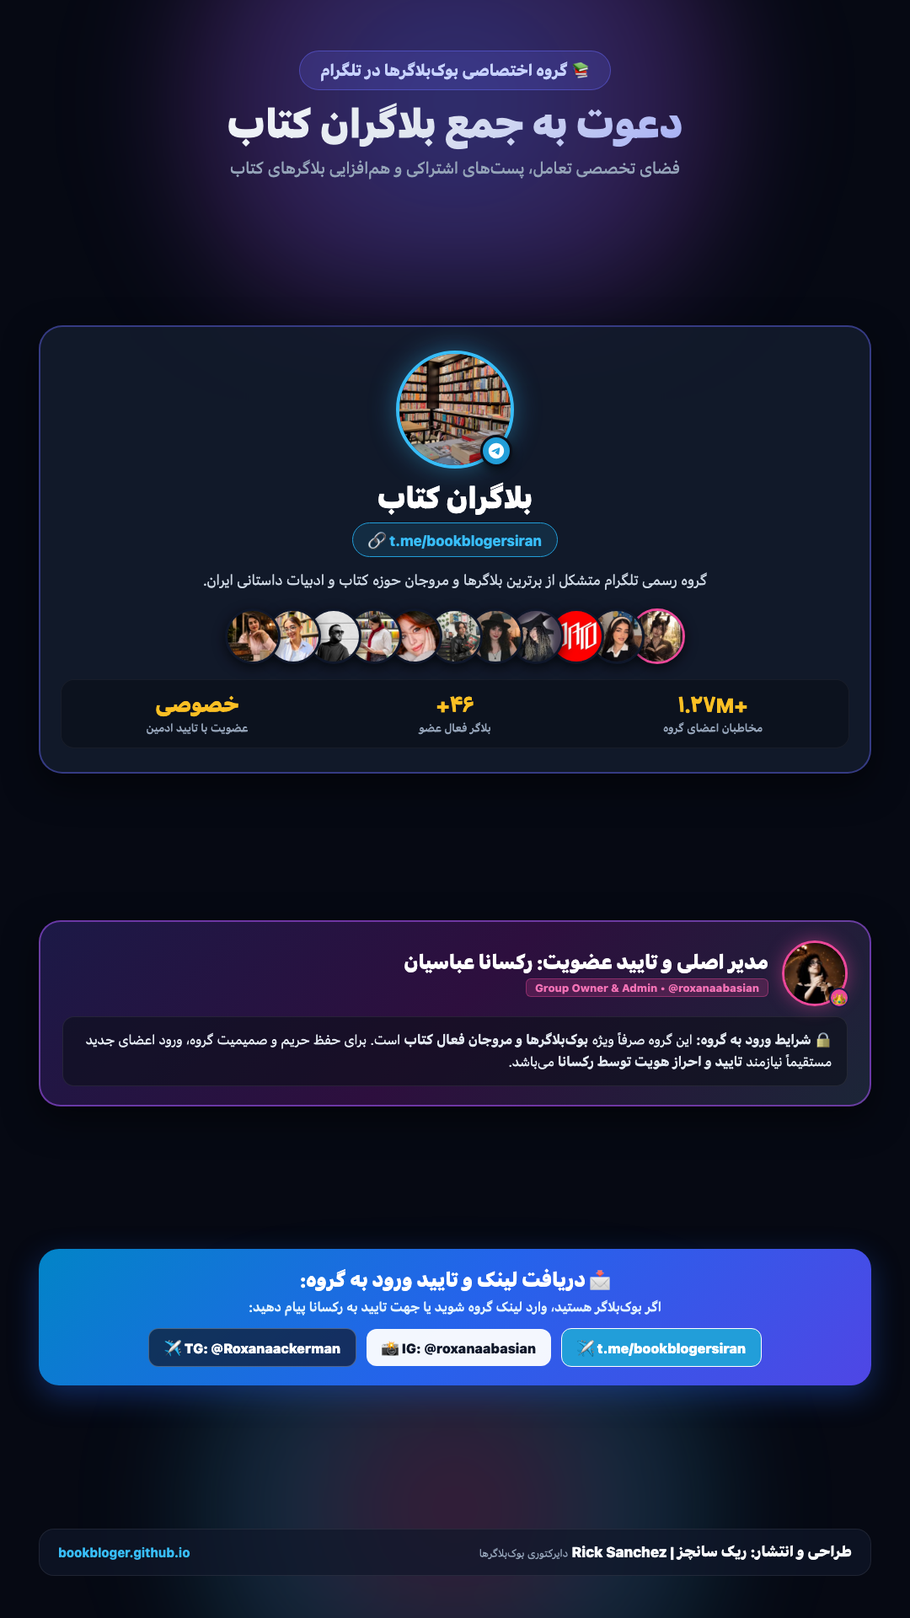
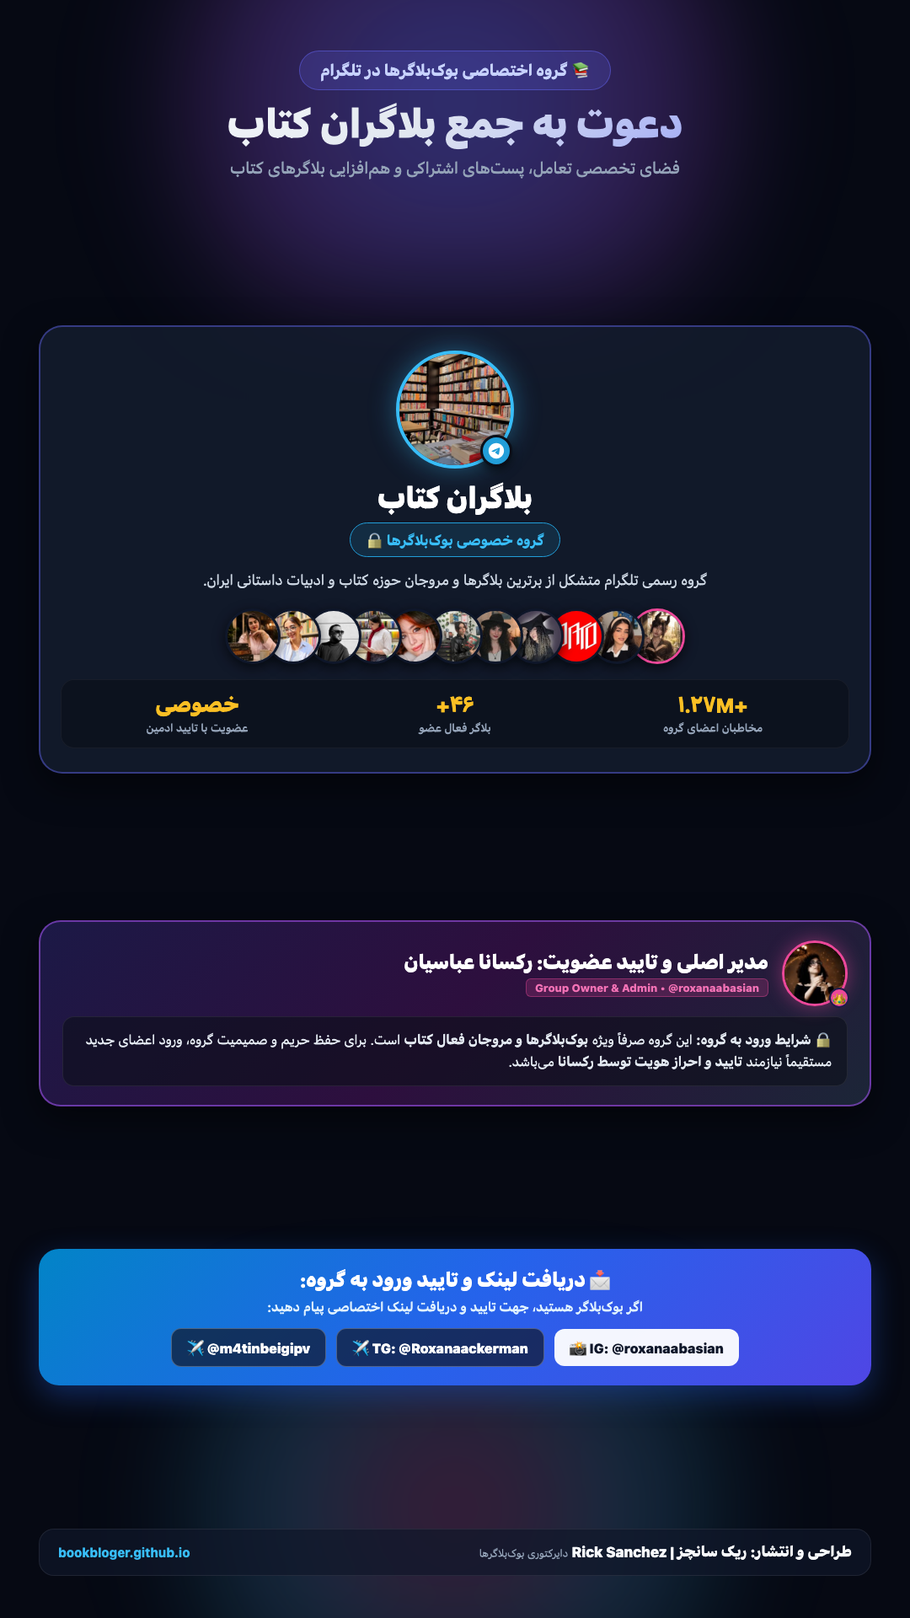
fix: update verified private telegram group invite link https://t.me/+tReSYWxBreFmYThk across all components

Changed region(s): [[0.275, 0.7812, 0.8556, 0.8438], [0.3972, 0.3125, 0.6111, 0.3438], [0.1528, 0.8125, 0.275, 0.8438]]

diff --git a/index.html b/index.html
@@ -981,8 +981,8 @@
         <div class="hero-badge">📊 مرتبشده بر اساس بیشترین فالوور اینستاگرام</div>
         
         <div class="nav-banners-row">
-            <a href="https://t.me/bookblogersiran" target="_blank" rel="noopener noreferrer" class="banner-btn group-tg">
-                👥 گروه تلگرام بوکبلاگرها (t.me/bookblogersiran) ↗
+            <a href="https://t.me/+tReSYWxBreFmYThk" target="_blank" rel="noopener noreferrer" class="banner-btn group-tg">
+                👥 گروه تلگرام بوکبلاگرها (ورود به گروه) ↗
             </a>
             <a href="3d.html" class="banner-btn galaxy">
                 🌌 کهکشان سهبعدی (3D Galaxy)
@@ -1008,9 +1008,9 @@
             برای اجرای کمپینهای تبلیغاتی، رونمایی و نقد کتاب، اسپانسرشیپ و همکاری هدفمند با بیش از <b>۱.۲۷ میلیون مخاطب کتابخوان</b> این لیست، هماهنگی و مدیریت اختصاصی کمپینها را میتوانید به <b>ریک سانچز</b> بسپارید یا در گروه تلگرامی مطرح کنید.
         </p>
         <div class="contact-buttons">
-            <a href="https://t.me/bookblogersiran" target="_blank" rel="noopener noreferrer" class="contact-btn contact-btn-group">
+            <a href="https://t.me/+tReSYWxBreFmYThk" target="_blank" rel="noopener noreferrer" class="contact-btn contact-btn-group">
                 <svg width="18" height="18" viewBox="0 0 24 24" fill="currentColor"><path d="M12 2C6.48 2 2 6.48 2 12s4.48 10 10 10 10-4.48 10-10S17.52 2 12 2zm4.64 6.8c-.15 1.58-.8 5.42-1.13 7.19-.14.75-.42 1-.68 1.03-.58.05-1.02-.38-1.58-.75-.88-.58-1.38-.94-2.23-1.5-.99-.65-.35-1.01.22-1.59.15-.15 2.71-2.48 2.76-2.69a.2.2 0 00-.05-.18c-.06-.05-.14-.03-.21-.02-.09.02-1.49.95-4.22 2.79-.4.27-.76.41-1.08.4-.36-.01-1.04-.2-1.55-.37-.63-.2-1.12-.31-1.08-.66.02-.18.27-.36.74-.55 2.92-1.27 4.86-2.11 5.83-2.51 2.78-1.16 3.35-1.36 3.73-1.36.08 0 .27.02.39.12.1.08.13.19.14.27-.01.06.01.24 0 .38z"/></svg>
-                گروه تلگرام: t.me/bookblogersiran
+                گروه تلگرام: بلاگران کتاب
             </a>
             <a href="https://t.me/m4tinbeigipv" target="_blank" rel="noopener noreferrer" class="contact-btn contact-btn-tg">
                 ادمین: @m4tinbeigipv
@@ -1046,46 +1046,6 @@
     </div>
 
     <div class="grid" id="bloggersGrid">
-        <div class="card" data-name="ریک سانچز (قفسه کتاب) RickBookshelf m4tinbeigi" data-followers="150000.0" style="border: 1px solid #10B981; background: linear-gradient(145deg, #0f172a, #064e3b22);">
-            <div class="rank-badge" style="background: #10B981; color: #000; font-weight: 800;">⭐ کیوریتور و تحلیلگر</div>
-            <div class="card-main-content">
-                <div class="card-top">
-                    <a href="https://t.me/RickBookshelf" target="_blank" class="avatar-wrap" title="کانال تلگرام قفسه کتاب ریک سانچز">
-                        <img src="avatars/rick_sanchez.png" alt="ریک سانچز - قفسه کتاب" class="avatar" loading="lazy">
-                    </a>
-                    <div class="info">
-                        <h3 title="ریک سانچز"><a href="https://t.me/RickBookshelf" target="_blank" class="name-link">ریک سانچز (قفسه کتاب)</a></h3>
-                        <a href="https://t.me/RickBookshelf" target="_blank" rel="noopener noreferrer" class="handle" title="تلگرام RickBookshelf">@RickBookshelf</a>
-                    </div>
-                </div>
-
-                <div class="metrics">
-                    <div class="metric-item">
-                        <div class="val highlight" style="color: #34D399;">C-137</div>
-                        <div class="lbl">دایره تحلیل</div>
-                    </div>
-                    <div class="metric-item">
-                        <div class="val">۱۰ پست/روز</div>
-                        <div class="lbl">نرخ نشر</div>
-                    </div>
-                    <div class="metric-item">
-                        <div class="val">عمیق</div>
-                        <div class="lbl">سطح محتوا</div>
-                    </div>
-                </div>
-            </div>
-
-            <div class="card-actions">
-                <a href="https://t.me/RickBookshelf" target="_blank" rel="noopener noreferrer" class="btn btn-detail" style="background: #10B981; color: #000; font-weight: 700;" title="عضویت در کانال قفسه کتاب">
-                    <svg width="15" height="15" viewBox="0 0 24 24" fill="currentColor"><path d="M12 2C6.48 2 2 6.48 2 12s4.48 10 10 10 10-4.48 10-10S17.52 2 12 2zm4.64 6.8c-.15 1.58-.8 5.42-1.13 7.19-.14.75-.42 1-.68 1.03-.58.05-1.02-.38-1.58-.75-.88-.58-1.38-.94-2.23-1.5-.99-.65-.35-1.01.22-1.59.15-.15 2.71-2.48 2.76-2.69a.2.2 0 00-.05-.18c-.06-.05-.14-.03-.21-.02-.09.02-1.49.95-4.22 2.79-.4.27-.76.41-1.08.4-.36-.01-1.04-.2-1.55-.37-.63-.2-1.12-.31-1.08-.66.02-.18.27-.36.74-.55 2.92-1.27 4.86-2.11 5.83-2.51 2.78-1.16 3.35-1.36 3.73-1.36.08 0 .27.02.39.12.1.08.13.19.14.27-.01.06.01.24 0 .38z"/></svg>
-                    کانال تلگرام
-                </a>
-                <a href="https://t.me/+Et8tgNcgkuYxNTA0" target="_blank" rel="noopener noreferrer" class="btn btn-ig" title="گروه گفتگوی کتاب">
-                    گفتگو و کامنتها
-                </a>
-            </div>
-        </div>
-
         <div class="card" data-name="آقای کتاب aqaye.ketab" data-followers="558000.0">
             <div class="rank-badge rank-1">🥇 رتبه ۱</div>
             <div class="card-main-content">
@@ -3091,7 +3051,7 @@
     <footer>
         <p>گردآوری، تحلیل داده و توسعه: <span class="footer-curator">ریک سانچز (Rick Sanchez)</span></p>
         <div class="footer-links">
-            <a href="https://t.me/bookblogersiran" target="_blank" rel="noopener noreferrer" style="color:#38bdf8; font-weight:700;">👥 گروه تلگرام (t.me/bookblogersiran)</a>
+            <a href="https://t.me/+tReSYWxBreFmYThk" target="_blank" rel="noopener noreferrer" style="color:#38bdf8; font-weight:700;">👥 گروه تلگرام (بلاگران کتاب)</a>
             <span>•</span>
             <a href="3d.html">🌌 کهکشان سهبعدی (3D)</a>
             <span>•</span>

diff --git a/top-posts.html b/top-posts.html
@@ -501,8 +501,8 @@
             بازگشت به دایرکتوری اصلی
         </a>
         <div class="top-links-group">
-            <a href="https://t.me/bookblogersiran" target="_blank" rel="noopener noreferrer" class="top-posts-link" style="color:#38bdf8; border-color:#229ED9;">
-                👥 گروه تلگرام (t.me/bookblogersiran)
+            <a href="https://t.me/+tReSYWxBreFmYThk" target="_blank" rel="noopener noreferrer" class="top-posts-link" style="color:#38bdf8; border-color:#229ED9;">
+                👥 گروه تلگرام (بلاگران کتاب)
             </a>
             <a href="3d.html" class="top-posts-link">
                 🌌 کهکشان سهبعدی
@@ -1000,7 +1000,7 @@
     <footer>
         <p>گردآوری و تحلیل داده: <b>ریک سانچز (Rick Sanchez)</b></p>
         <div class="footer-links">
-            <a href="https://t.me/bookblogersiran" target="_blank" rel="noopener noreferrer" style="color:#38bdf8; font-weight:700;">👥 گروه تلگرام (t.me/bookblogersiran)</a>
+            <a href="https://t.me/+tReSYWxBreFmYThk" target="_blank" rel="noopener noreferrer" style="color:#38bdf8; font-weight:700;">👥 گروه تلگرام (بلاگران کتاب)</a>
             <span>•</span>
             <a href="3d.html">🌌 کهکشان سهبعدی</a>
             <span>•</span>

diff --git a/blogger/dreems_book.html b/blogger/dreems_book.html
@@ -931,7 +931,7 @@
         <h2 class="campaign-title">هماهنگی و اجرای کمپین با بلاگر کتاب | معرفی کتاب | فروش کتاب | روزمرگی | بوکستاگرام |</h2>
         <p class="campaign-desc">برای هماهنگی تبلیغات، ارسال کتاب، نقد و بررسی و اجرای کمپینهای هدفمند با این بلاگر با مدیریت <b>ریک سانچز</b> در ارتباط باشید یا در گروه بوکبلاگرها مطرح کنید.</p>
         <div class="contact-buttons">
-            <a href="https://t.me/+tReSYWxBreFmYThk" target="_blank" rel="noopener noreferrer" class="contact-btn contact-btn-group">👥 گروه تلگرام: t.me/bookblogersiran</a>
+            <a href="https://t.me/+tReSYWxBreFmYThk" target="_blank" rel="noopener noreferrer" class="contact-btn contact-btn-group">👥 گروه تلگرام: بلاگران کتاب</a>
             <a href="https://t.me/m4tinbeigipv" target="_blank" rel="noopener noreferrer" class="contact-btn contact-btn-tg">تلگرام: @m4tinbeigipv</a>
             <a href="https://instagram.com/m4tinbeigi" target="_blank" rel="noopener noreferrer" class="contact-btn contact-btn-ig">اینستاگرام: @m4tinbeigi</a>
         </div>

diff --git a/blogger/negarankarimi.html b/blogger/negarankarimi.html
@@ -922,7 +922,7 @@
         <h2 class="campaign-title">هماهنگی و اجرای کمپین با نگارکریمی | تسهیلگر |  جستوجوگرِ یادگیری و رشد</h2>
         <p class="campaign-desc">برای هماهنگی تبلیغات، ارسال کتاب، نقد و بررسی و اجرای کمپینهای هدفمند با این بلاگر با مدیریت <b>ریک سانچز</b> در ارتباط باشید یا در گروه بوکبلاگرها مطرح کنید.</p>
         <div class="contact-buttons">
-            <a href="https://t.me/+tReSYWxBreFmYThk" target="_blank" rel="noopener noreferrer" class="contact-btn contact-btn-group">👥 گروه تلگرام: t.me/bookblogersiran</a>
+            <a href="https://t.me/+tReSYWxBreFmYThk" target="_blank" rel="noopener noreferrer" class="contact-btn contact-btn-group">👥 گروه تلگرام: بلاگران کتاب</a>
             <a href="https://t.me/m4tinbeigipv" target="_blank" rel="noopener noreferrer" class="contact-btn contact-btn-tg">تلگرام: @m4tinbeigipv</a>
             <a href="https://instagram.com/m4tinbeigi" target="_blank" rel="noopener noreferrer" class="contact-btn contact-btn-ig">اینستاگرام: @m4tinbeigi</a>
         </div>

diff --git a/blogger/totfarangii_ketab.html b/blogger/totfarangii_ketab.html
@@ -922,7 +922,7 @@
         <h2 class="campaign-title">هماهنگی و اجرای کمپین با دختر توتفرنگی | دنیای کتابها | معرفی و نقد</h2>
         <p class="campaign-desc">برای هماهنگی تبلیغات، ارسال کتاب، نقد و بررسی و اجرای کمپینهای هدفمند با این بلاگر با مدیریت <b>ریک سانچز</b> در ارتباط باشید یا در گروه بوکبلاگرها مطرح کنید.</p>
         <div class="contact-buttons">
-            <a href="https://t.me/+tReSYWxBreFmYThk" target="_blank" rel="noopener noreferrer" class="contact-btn contact-btn-group">👥 گروه تلگرام: t.me/bookblogersiran</a>
+            <a href="https://t.me/+tReSYWxBreFmYThk" target="_blank" rel="noopener noreferrer" class="contact-btn contact-btn-group">👥 گروه تلگرام: بلاگران کتاب</a>
             <a href="https://t.me/m4tinbeigipv" target="_blank" rel="noopener noreferrer" class="contact-btn contact-btn-tg">تلگرام: @m4tinbeigipv</a>
             <a href="https://instagram.com/m4tinbeigi" target="_blank" rel="noopener noreferrer" class="contact-btn contact-btn-ig">اینستاگرام: @m4tinbeigi</a>
         </div>

diff --git a/blogger/pragma_book.html b/blogger/pragma_book.html
@@ -922,7 +922,7 @@
         <h2 class="campaign-title">هماهنگی و اجرای کمپین با پراگما/ابوالفضل ثابت مقدم/کتاب/مروج ادبیات</h2>
         <p class="campaign-desc">برای هماهنگی تبلیغات، ارسال کتاب، نقد و بررسی و اجرای کمپینهای هدفمند با این بلاگر با مدیریت <b>ریک سانچز</b> در ارتباط باشید یا در گروه بوکبلاگرها مطرح کنید.</p>
         <div class="contact-buttons">
-            <a href="https://t.me/+tReSYWxBreFmYThk" target="_blank" rel="noopener noreferrer" class="contact-btn contact-btn-group">👥 گروه تلگرام: t.me/bookblogersiran</a>
+            <a href="https://t.me/+tReSYWxBreFmYThk" target="_blank" rel="noopener noreferrer" class="contact-btn contact-btn-group">👥 گروه تلگرام: بلاگران کتاب</a>
             <a href="https://t.me/m4tinbeigipv" target="_blank" rel="noopener noreferrer" class="contact-btn contact-btn-tg">تلگرام: @m4tinbeigipv</a>
             <a href="https://instagram.com/m4tinbeigi" target="_blank" rel="noopener noreferrer" class="contact-btn contact-btn-ig">اینستاگرام: @m4tinbeigi</a>
         </div>

diff --git a/blogger/sinmoruk.html b/blogger/sinmoruk.html
@@ -922,7 +922,7 @@
         <h2 class="campaign-title">هماهنگی و اجرای کمپین با پرناز بهزاد | سرگردان میان خیال و نوشتن</h2>
         <p class="campaign-desc">برای هماهنگی تبلیغات، ارسال کتاب، نقد و بررسی و اجرای کمپینهای هدفمند با این بلاگر با مدیریت <b>ریک سانچز</b> در ارتباط باشید یا در گروه بوکبلاگرها مطرح کنید.</p>
         <div class="contact-buttons">
-            <a href="https://t.me/+tReSYWxBreFmYThk" target="_blank" rel="noopener noreferrer" class="contact-btn contact-btn-group">👥 گروه تلگرام: t.me/bookblogersiran</a>
+            <a href="https://t.me/+tReSYWxBreFmYThk" target="_blank" rel="noopener noreferrer" class="contact-btn contact-btn-group">👥 گروه تلگرام: بلاگران کتاب</a>
             <a href="https://t.me/m4tinbeigipv" target="_blank" rel="noopener noreferrer" class="contact-btn contact-btn-tg">تلگرام: @m4tinbeigipv</a>
             <a href="https://instagram.com/m4tinbeigi" target="_blank" rel="noopener noreferrer" class="contact-btn contact-btn-ig">اینستاگرام: @m4tinbeigi</a>
         </div>

diff --git a/blogger/zahrabook_.html b/blogger/zahrabook_.html
@@ -922,7 +922,7 @@
         <h2 class="campaign-title">هماهنگی و اجرای کمپین با زهـــرا | معرفی کتاب | فیلم و سریال 📚🪄</h2>
         <p class="campaign-desc">برای هماهنگی تبلیغات، ارسال کتاب، نقد و بررسی و اجرای کمپینهای هدفمند با این بلاگر با مدیریت <b>ریک سانچز</b> در ارتباط باشید یا در گروه بوکبلاگرها مطرح کنید.</p>
         <div class="contact-buttons">
-            <a href="https://t.me/+tReSYWxBreFmYThk" target="_blank" rel="noopener noreferrer" class="contact-btn contact-btn-group">👥 گروه تلگرام: t.me/bookblogersiran</a>
+            <a href="https://t.me/+tReSYWxBreFmYThk" target="_blank" rel="noopener noreferrer" class="contact-btn contact-btn-group">👥 گروه تلگرام: بلاگران کتاب</a>
             <a href="https://t.me/m4tinbeigipv" target="_blank" rel="noopener noreferrer" class="contact-btn contact-btn-tg">تلگرام: @m4tinbeigipv</a>
             <a href="https://instagram.com/m4tinbeigi" target="_blank" rel="noopener noreferrer" class="contact-btn contact-btn-ig">اینستاگرام: @m4tinbeigi</a>
         </div>

diff --git a/blogger/roxanaabasian.html b/blogger/roxanaabasian.html
@@ -941,7 +941,7 @@
         <h2 class="campaign-title">هماهنگی و اجرای کمپین با رکسانا|معرفی کتاب|گروه کتابخوانی</h2>
         <p class="campaign-desc">برای هماهنگی تبلیغات، ارسال کتاب، نقد و بررسی و اجرای کمپینهای هدفمند با این بلاگر با مدیریت <b>ریک سانچز</b> در ارتباط باشید یا در گروه بوکبلاگرها مطرح کنید.</p>
         <div class="contact-buttons">
-            <a href="https://t.me/+tReSYWxBreFmYThk" target="_blank" rel="noopener noreferrer" class="contact-btn contact-btn-group">👥 گروه تلگرام: t.me/bookblogersiran</a>
+            <a href="https://t.me/+tReSYWxBreFmYThk" target="_blank" rel="noopener noreferrer" class="contact-btn contact-btn-group">👥 گروه تلگرام: بلاگران کتاب</a>
             <a href="https://t.me/m4tinbeigipv" target="_blank" rel="noopener noreferrer" class="contact-btn contact-btn-tg">تلگرام: @m4tinbeigipv</a>
             <a href="https://instagram.com/m4tinbeigi" target="_blank" rel="noopener noreferrer" class="contact-btn contact-btn-ig">اینستاگرام: @m4tinbeigi</a>
         </div>

diff --git a/blogger/pariaareads.html b/blogger/pariaareads.html
@@ -922,7 +922,7 @@
         <h2 class="campaign-title">هماهنگی و اجرای کمپین با پریا|بلاگر کتاب|کتاب فروشی آنلاین</h2>
         <p class="campaign-desc">برای هماهنگی تبلیغات، ارسال کتاب، نقد و بررسی و اجرای کمپینهای هدفمند با این بلاگر با مدیریت <b>ریک سانچز</b> در ارتباط باشید یا در گروه بوکبلاگرها مطرح کنید.</p>
         <div class="contact-buttons">
-            <a href="https://t.me/+tReSYWxBreFmYThk" target="_blank" rel="noopener noreferrer" class="contact-btn contact-btn-group">👥 گروه تلگرام: t.me/bookblogersiran</a>
+            <a href="https://t.me/+tReSYWxBreFmYThk" target="_blank" rel="noopener noreferrer" class="contact-btn contact-btn-group">👥 گروه تلگرام: بلاگران کتاب</a>
             <a href="https://t.me/m4tinbeigipv" target="_blank" rel="noopener noreferrer" class="contact-btn contact-btn-tg">تلگرام: @m4tinbeigipv</a>
             <a href="https://instagram.com/m4tinbeigi" target="_blank" rel="noopener noreferrer" class="contact-btn contact-btn-ig">اینستاگرام: @m4tinbeigi</a>
         </div>

diff --git a/blogger/acal.madahi.html b/blogger/acal.madahi.html
@@ -922,7 +922,7 @@
         <h2 class="campaign-title">هماهنگی و اجرای کمپین با عسل | معرفی کتاب | پادکست | جستجوگر</h2>
         <p class="campaign-desc">برای هماهنگی تبلیغات، ارسال کتاب، نقد و بررسی و اجرای کمپینهای هدفمند با این بلاگر با مدیریت <b>ریک سانچز</b> در ارتباط باشید یا در گروه بوکبلاگرها مطرح کنید.</p>
         <div class="contact-buttons">
-            <a href="https://t.me/+tReSYWxBreFmYThk" target="_blank" rel="noopener noreferrer" class="contact-btn contact-btn-group">👥 گروه تلگرام: t.me/bookblogersiran</a>
+            <a href="https://t.me/+tReSYWxBreFmYThk" target="_blank" rel="noopener noreferrer" class="contact-btn contact-btn-group">👥 گروه تلگرام: بلاگران کتاب</a>
             <a href="https://t.me/m4tinbeigipv" target="_blank" rel="noopener noreferrer" class="contact-btn contact-btn-tg">تلگرام: @m4tinbeigipv</a>
             <a href="https://instagram.com/m4tinbeigi" target="_blank" rel="noopener noreferrer" class="contact-btn contact-btn-ig">اینستاگرام: @m4tinbeigi</a>
         </div>

diff --git a/blogger/parham.hami.html b/blogger/parham.hami.html
@@ -922,7 +922,7 @@
         <h2 class="campaign-title">هماهنگی و اجرای کمپین با پرهام حامی | ادبیات، هنر، سینما</h2>
         <p class="campaign-desc">برای هماهنگی تبلیغات، ارسال کتاب، نقد و بررسی و اجرای کمپینهای هدفمند با این بلاگر با مدیریت <b>ریک سانچز</b> در ارتباط باشید یا در گروه بوکبلاگرها مطرح کنید.</p>
         <div class="contact-buttons">
-            <a href="https://t.me/+tReSYWxBreFmYThk" target="_blank" rel="noopener noreferrer" class="contact-btn contact-btn-group">👥 گروه تلگرام: t.me/bookblogersiran</a>
+            <a href="https://t.me/+tReSYWxBreFmYThk" target="_blank" rel="noopener noreferrer" class="contact-btn contact-btn-group">👥 گروه تلگرام: بلاگران کتاب</a>
             <a href="https://t.me/m4tinbeigipv" target="_blank" rel="noopener noreferrer" class="contact-btn contact-btn-tg">تلگرام: @m4tinbeigipv</a>
             <a href="https://instagram.com/m4tinbeigi" target="_blank" rel="noopener noreferrer" class="contact-btn contact-btn-ig">اینستاگرام: @m4tinbeigi</a>
         </div>
